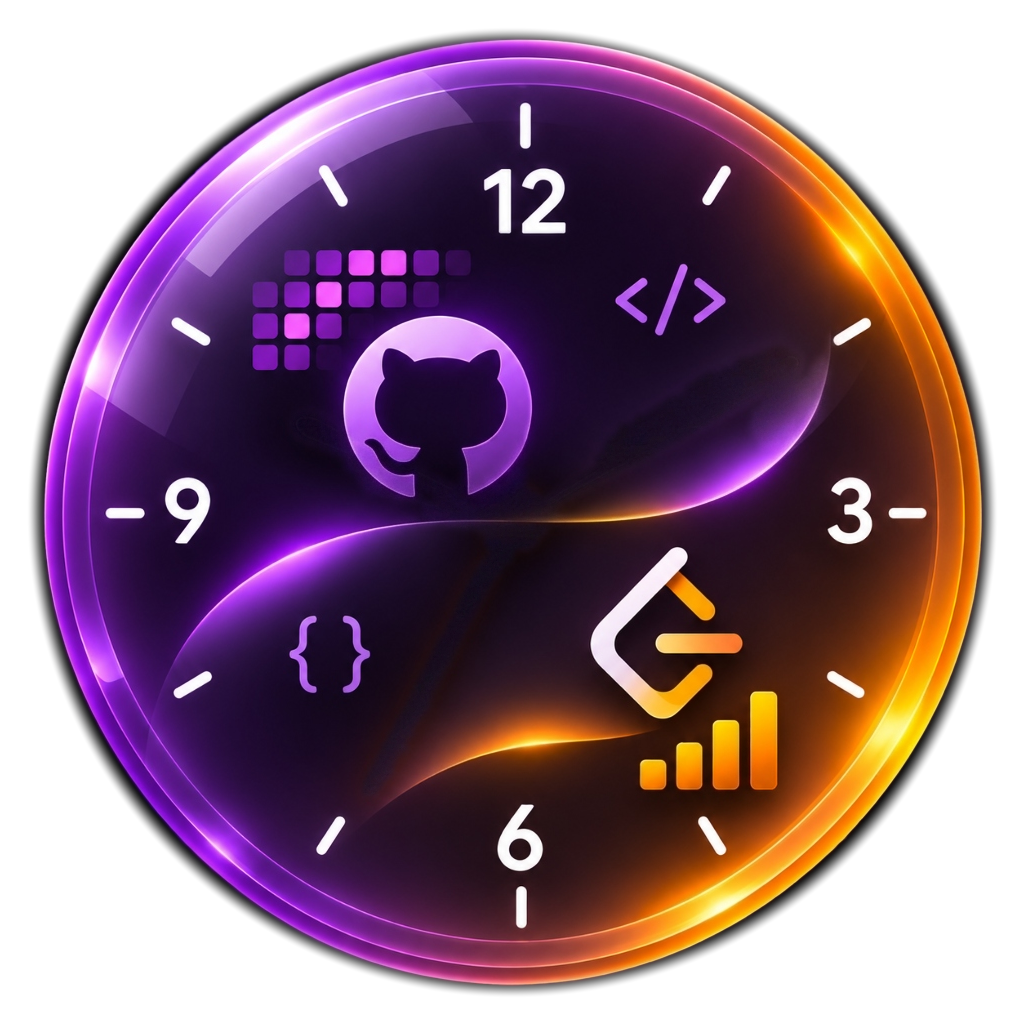
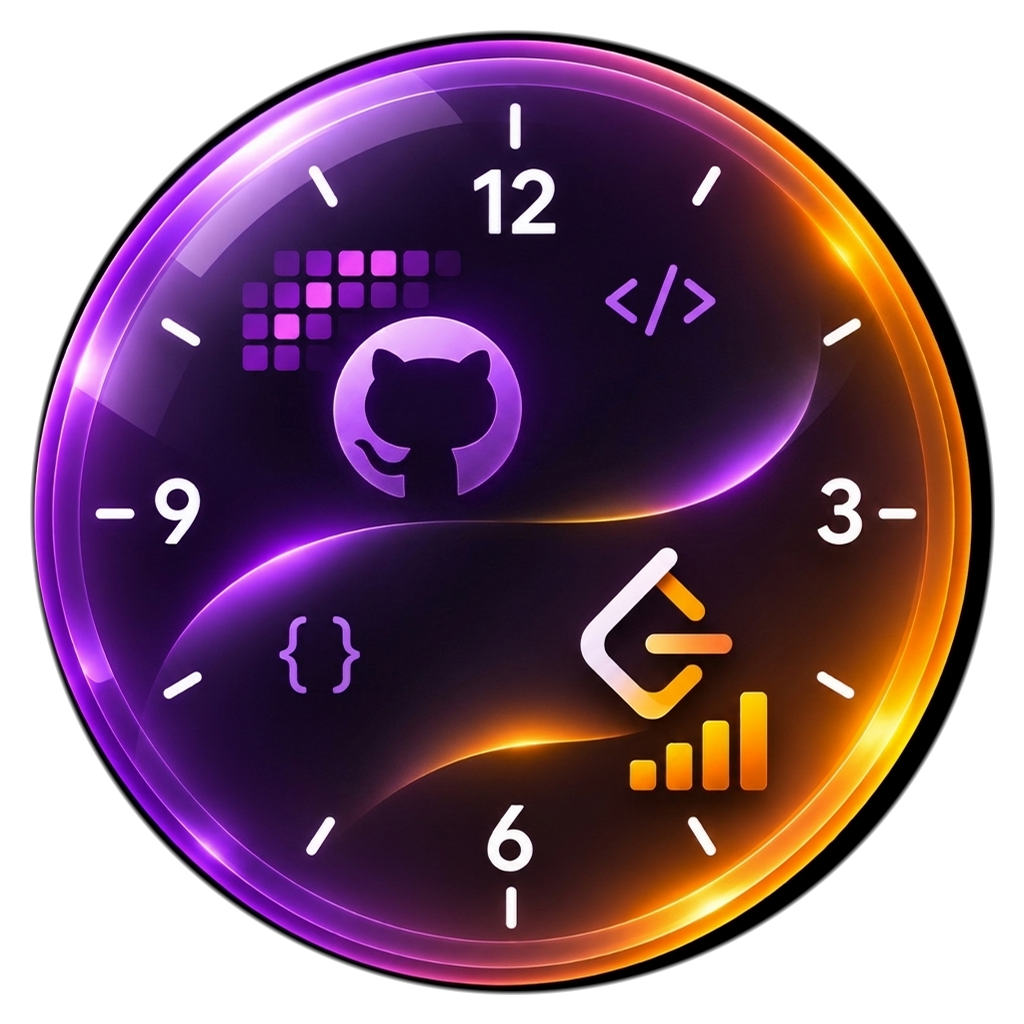
fix(clock): center dial face, ensure circular black background, and guarantee real-time clock accuracy

diff --git a/src/components/widgets/developer-clock.tsx b/src/components/widgets/developer-clock.tsx
@@ -1,26 +1,39 @@
 "use client";
 
-import React, { useEffect, useRef } from "react";
+import React, { useEffect, useRef, useState } from "react";
 import Image from "next/image";
+
+function getClockAngles() {
+  const now = new Date();
+  const ms = now.getMilliseconds();
+  const seconds = now.getSeconds() + ms / 1000;
+  const minutes = now.getMinutes() + seconds / 60;
+  const hours = (now.getHours() % 12) + minutes / 60;
+
+  return {
+    secondDeg: seconds * 6, // 360deg / 60s
+    minuteDeg: minutes * 6, // 360deg / 60m
+    hourDeg: hours * 30, // 360deg / 12h
+    formatted: now.toLocaleTimeString([], {
+      hour: "numeric",
+      minute: "2-digit",
+      second: "2-digit",
+      hour12: true,
+    }),
+  };
+}
 
 export function DeveloperClock() {
   const hourHandRef = useRef<SVGGElement>(null);
   const minuteHandRef = useRef<SVGGElement>(null);
   const secondHandRef = useRef<SVGGElement>(null);
+  const [timeDisplay, setTimeDisplay] = useState<string>("");
 
   useEffect(() => {
     let animId: number;
 
-    const updateClock = () => {
-      const now = new Date();
-      const ms = now.getMilliseconds();
-      const seconds = now.getSeconds() + ms / 1000;
-      const minutes = now.getMinutes() + seconds / 60;
-      const hours = (now.getHours() % 12) + minutes / 60;
-
-      const secondDeg = seconds * 6; // 360deg / 60s
-      const minuteDeg = minutes * 6; // 360deg / 60m
-      const hourDeg = hours * 30; // 360deg / 12h
+    const applyAngles = () => {
+      const { secondDeg, minuteDeg, hourDeg, formatted } = getClockAngles();
 
       if (secondHandRef.current) {
         secondHandRef.current.setAttribute("transform", `rotate(${secondDeg.toFixed(2)} 512 512)`);
@@ -32,24 +45,45 @@ export function DeveloperClock() {
         hourHandRef.current.setAttribute("transform", `rotate(${hourDeg.toFixed(2)} 512 512)`);
       }
 
-      animId = requestAnimationFrame(updateClock);
+      return formatted;
     };
 
-    updateClock();
-    return () => cancelAnimationFrame(animId);
+    // Immediate first tick
+    const initialTime = applyAngles();
+    setTimeDisplay(initialTime);
+
+    // Continuous 60fps/120fps sweeping animation loop
+    const tick = () => {
+      applyAngles();
+      animId = requestAnimationFrame(tick);
+    };
+    animId = requestAnimationFrame(tick);
+
+    // 1-second interval backup to update tooltip/aria text and handle tab throttling
+    const intervalId = setInterval(() => {
+      setTimeDisplay(applyAngles());
+    }, 1000);
+
+    return () => {
+      cancelAnimationFrame(animId);
+      clearInterval(intervalId);
+    };
   }, []);
 
   return (
-    <div className="relative w-full h-full min-h-[320px] lg:min-h-[350px] rounded-2xl bg-black border border-white/[0.08] shadow-2xl flex items-center justify-center p-3 sm:p-4 overflow-hidden">
-      {/* Ambient glass backlight glow: electric purple on left, warm amber on right over the black backdrop */}
-      <div className="pointer-events-none absolute inset-0 bg-radial from-purple-950/30 via-black to-black" />
-      <div className="pointer-events-none absolute inset-0 bg-gradient-to-r from-purple-600/15 via-transparent to-amber-500/15 blur-2xl opacity-60" />
+    <div className="relative w-full h-full min-h-[320px] lg:min-h-[350px] flex items-center justify-center p-0">
+      {/* Tight circular black background directly hugging the clock so it does not spread out */}
+      <div
+        className="group relative w-full max-w-[315px] xl:max-w-[345px] aspect-square rounded-full bg-black border border-white/[0.08] shadow-[0_16px_44px_rgba(0,0,0,0.85)] flex items-center justify-center p-1 overflow-hidden transition-transform duration-300"
+        title={timeDisplay ? `Real-Time Developer Clock — ${timeDisplay}` : "Real-Time Developer Clock"}
+        aria-label={timeDisplay ? `Real-Time Developer Clock: ${timeDisplay}` : "Real-Time Developer Clock"}
+      >
+        {/* Subtle inner ambient glow under the glass orb */}
+        <div className="pointer-events-none absolute inset-0 rounded-full bg-gradient-to-r from-purple-950/40 via-black to-amber-950/40" />
 
-      {/* Floating Circular Clock Orb - balanced size with clean framing */}
-      <div className="relative w-full max-w-[315px] xl:max-w-[345px] aspect-square flex items-center justify-center transition-transform duration-300 drop-shadow-[0_14px_36px_rgba(0,0,0,0.8)]">
         {/* Circular glassmorphic dial face with purple/amber rim, caustics, and no background */}
         <Image
-          src="/developer-clock-dial.png?v=orb2"
+          src="/developer-clock-dial.png?v=orb3"
           alt="Real-time Circular Glassmorphic Developer Clock"
           fill
           priority
@@ -96,7 +130,7 @@ export function DeveloperClock() {
           </defs>
 
           {/* Skeleton Hour Hand: Tapered needle with central slit cutout */}
-          <g ref={hourHandRef} transform="rotate(300 512 512)">
+          <g ref={hourHandRef}>
             <path
               d="M 503 522 L 505 450 L 509 336 A 3 3 0 0 1 515 336 L 519 450 L 521 522 Z M 509 445 L 509 360 A 3 3 0 0 1 515 360 L 515 445 A 3 3 0 0 1 509 445 Z"
               fill="url(#clock-hand-white)"
@@ -106,7 +140,7 @@ export function DeveloperClock() {
           </g>
 
           {/* Skeleton Minute Hand: Longer tapered needle with elongated slit cutout */}
-          <g ref={minuteHandRef} transform="rotate(60 512 512)">
+          <g ref={minuteHandRef}>
             <path
               d="M 503 522 L 506 430 L 509.5 248 A 2.5 2.5 0 0 1 514.5 248 L 518 430 L 521 522 Z M 509.5 450 L 509.5 280 A 2.5 2.5 0 0 1 514.5 280 L 514.5 450 A 2.5 2.5 0 0 1 509.5 450 Z"
               fill="url(#clock-hand-white)"
@@ -116,7 +150,7 @@ export function DeveloperClock() {
           </g>
 
           {/* Second Hand: Razor-thin needle with counterweight */}
-          <g ref={secondHandRef} transform="rotate(225 512 512)">
+          <g ref={secondHandRef}>
             {/* Counterweight */}
             <path
               d="M 510.5 512 L 510 564 A 2 2 0 0 0 514 564 L 513.5 512 Z"
